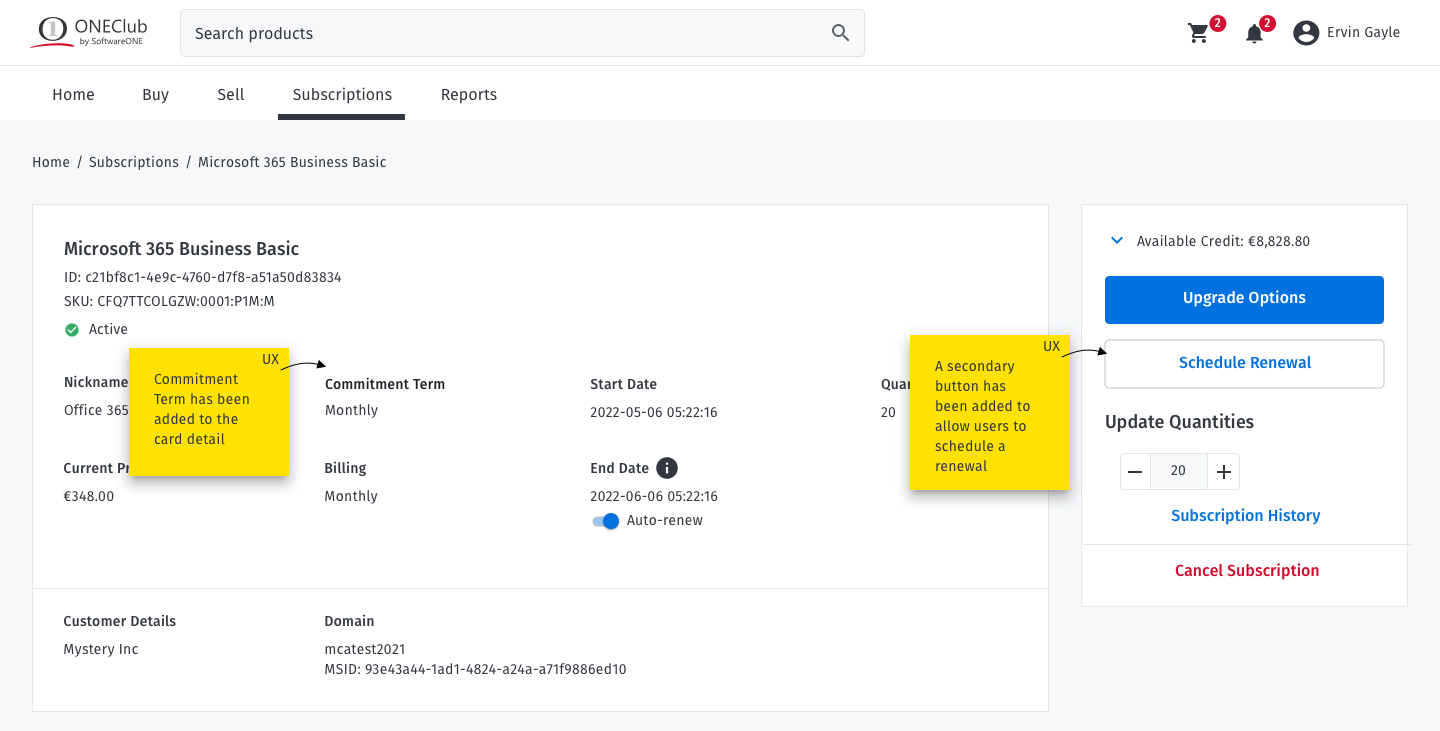
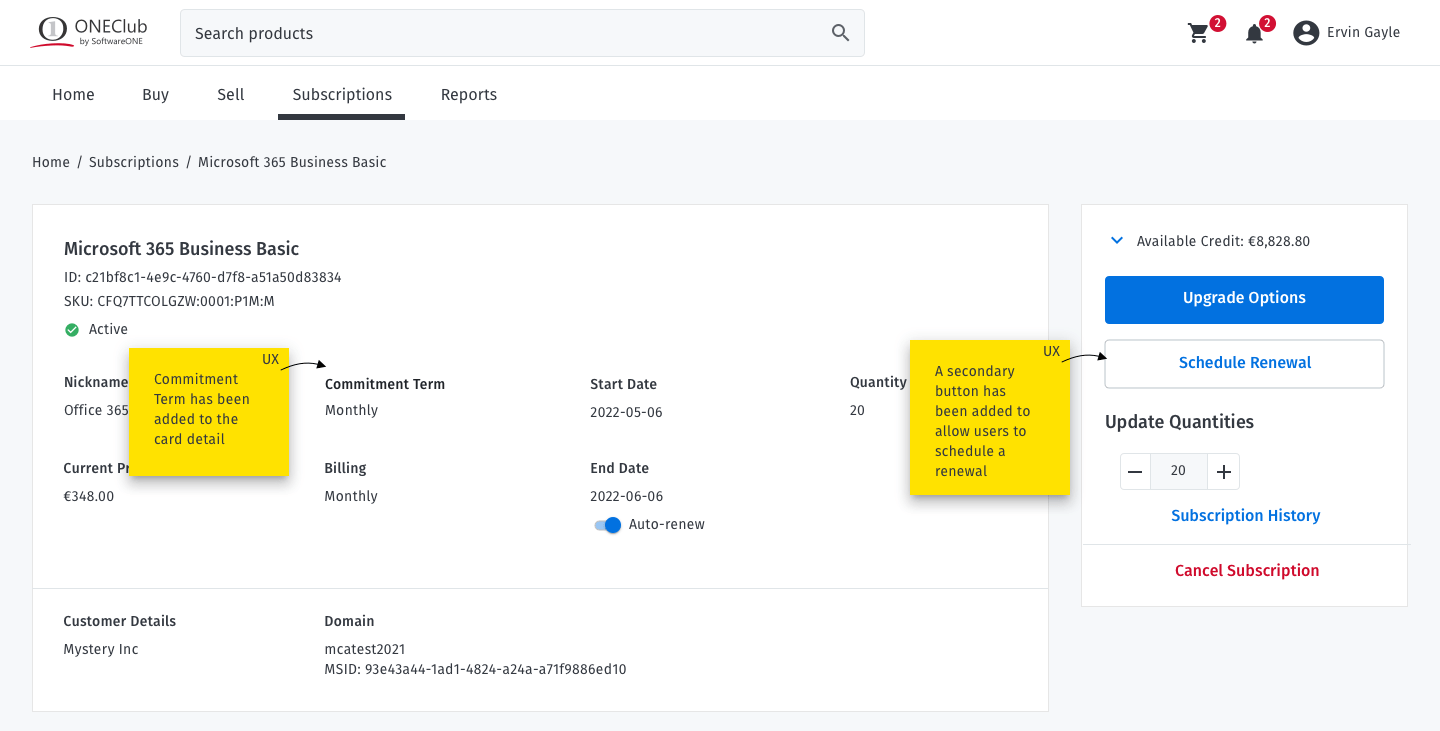
updating images to remove hour

diff --git a/NCE.html b/NCE.html
@@ -1035,7 +1035,7 @@ This project involved numerous meetings and discussions with key stakeholders an
                                 <div class="row">
                                   <div class="col-xs-12">
                                    <h3 class="number-subheading ">
-                                      4 License Reductions </h3>
+                                      4 - License Reductions </h3>
                                     <p class="portfolio-detail-body">
                                   Another change to licensing that was imposed as part of NCE was the time period allowed for reduction of subscription quantities.
                                 The new business rules meant that there was a 7 day window where the partner could reduce the quantities of the subscription. 
